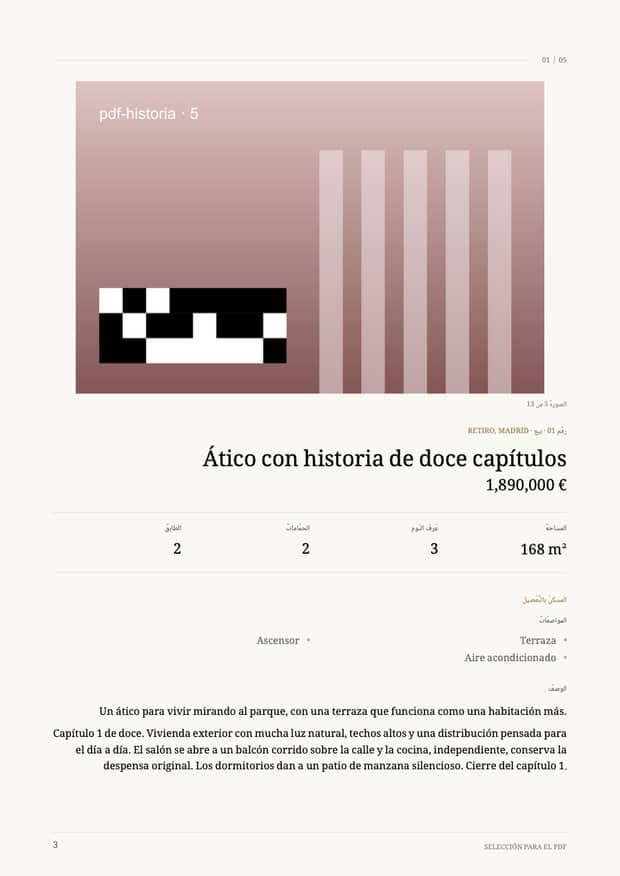
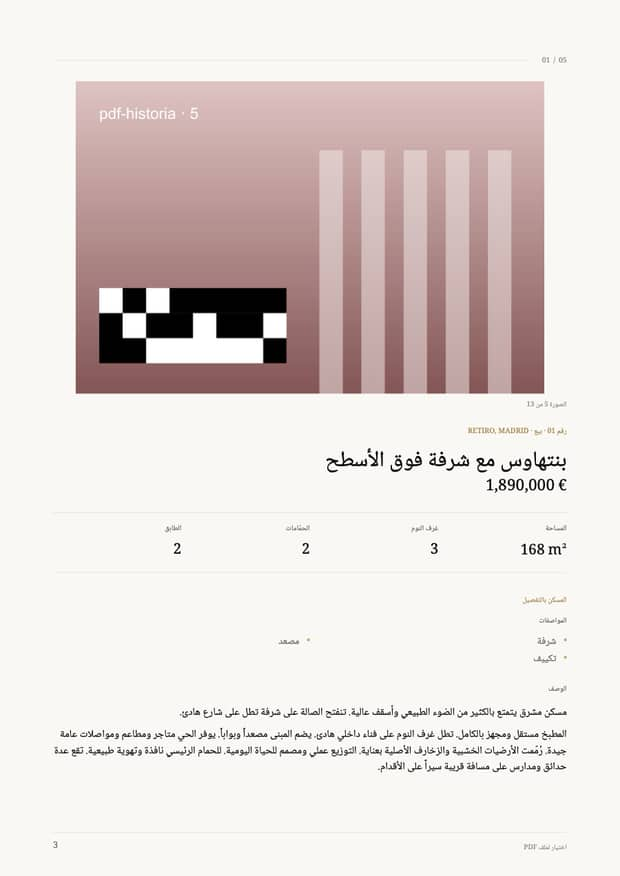
docs(catalogos): adaptación del PR5 al PR6 (contenido traducido, N5, E10) y capturas

diff --git a/docs/changes/2026-10-21-bcp-01-ampliacion-textos-idiomas/result-pr5.md b/docs/changes/2026-10-21-bcp-01-ampliacion-textos-idiomas/result-pr5.md
@@ -8,7 +8,7 @@
 > 1. **D1 no se podía aplicar como estaba previsto (DA21, se cuenta tal cual).** La prueba técnica suponía que el hilo del PDF lleva `@react-pdf` compilado dentro. No es así: Next tiene `@react-pdf/renderer` en su lista **por defecto** de paquetes externos del servidor, así que Node lo carga de `node_modules` al ejecutar, también dentro del hilo. Un loader de webpack nunca lo tocaría. Lo detectó la propia comprobación del PR en el servidor de fixtures (500 con `pdf_engine_unpatched`). **Solución:** la misma corrección, como hook de carga de módulos de Node (`module.register`), que se instala al arrancar el servidor (`instrumentation.ts`) y al arrancar el hilo (primera importación de `render-worker.ts`). El loader de webpack queda de reserva. Probado en el servidor de desarrollo (hilo y camino sin hilo) y **ejecutando el chunk del hilo compilado por `next build`** sin ningún hook externo.
 > 2. **El español sale idéntico a `main`:** los 10 catálogos de fixtures, objeto a objeto, salvo fecha, `/ID` y prefijo aleatorio de las fuentes.
 > 3. **D4 queda propuesta** (abajo): en árabe y hebreo, cifras, precios y latín con la parte latina de **la misma familia** (Noto Naskh Arabic, Frank Ruhl Libre, Noto Sans Hebrew), como el lector. Cambiarla es una línea.
-> 4. **Dos cosas nuevas para Fabricio:** un residuo de forma más del árabe (los puntos de la «ة» final de «المساحة», familia E8, no cubierto por D3) y un defecto **anterior** del PDF en español (la ligadura «fi» de Playfair no lleva texto: algunos lectores copian «La finca» como «La nca»). Ninguno se ha tocado en silencio.
+> 4. **Para Fabricio:** un defecto **anterior** del PDF en español (la ligadura «fi» de Playfair no lleva texto: algunos lectores copian «La finca» como «La nca»), no tocado. El residuo de forma del árabe (E8, «في» y «ة») **ya no existe**: era un defecto del motor (E10) encontrado al adaptar el PR5 al PR6 y corregido (ver «Adaptación al PR6»).
 
 ## PR5 · PDF multilingüe y fuentes
 
@@ -49,7 +49,7 @@
 - **`patch.cjs` (un solo módulo).**
   - Sustituye trozos exactos de `@react-pdf/textkit` 6.3.0: `reorderLine` (E2, E3 y E4, más el texto lógico para D2) y `slice$1` (E7).
   - Y de `@react-pdf/render` 4.5.1: `renderGlyphs` (E6) y `renderLine` (ActualText, D2).
-  - Deja una marca (`bcp-pdf-engine-patch@1 textkit-6.3.0 render-4.5.1`) en `globalThis` y en el código.
+  - Deja una marca (`bcp-pdf-engine-patch@2 textkit-6.3.0 render-4.5.1`; `@1` antes de E10) en `globalThis` y en el código.
   - Es idempotente.
 - **Comprobación de versión** (al cargar). Si la versión instalada no es la revisada, o un trozo no aparece exactamente una vez, **lanza**: «[pdf-engine-patch] @react-pdf/textkit 6.4.0 no es la versión revisada (6.3.0) — revisa lib/pdf/engine-patch/patch.cjs…». La carga de `@react-pdf` falla con ese motivo. Lo prueba `npm run test:pdf-engine` en la CI con versiones y textos simulados.
 - **Dónde se instala:**
@@ -63,7 +63,7 @@
   - El chunk del hilo (`.next.qa/server/chunks/9233.js`, 77 KB) contiene la marca, el hook (`data:text/javascript,`) y `import("@react-pdf/renderer")`, este fuera del bundle.
   - `instrumentation.js` carga el chunk de instalación (`69554.js`, también con la marca).
   - **Prueba de ejecución:** ese chunk compilado se lanzó como `Worker` desde un proceso **sin** el hook de los scripts (marca ausente en el proceso principal). Maquetó «pdf» en ar (16 hojas, 103 líneas con ActualText), he (15 hojas, 102) y es (16 hojas, 0).
-- **Se buscó así:** `grep -rl "bcp-pdf-engine-patch@1" .next.qa/server` y `grep -rl parentPort .next.qa/server/chunks`, antes de borrar `.next.qa`.
+- **Se buscó así:** `grep -rl "bcp-pdf-engine-patch@2" .next.qa/server` (`@1` en la primera versión) y `grep -rl parentPort .next.qa/server/chunks`, antes de borrar `.next.qa`.
 
 ### Propuesta D4 (para que Fabricio la cierre)
 
@@ -98,9 +98,7 @@
 | `compare-worker-inline.mts`: hilo frente a camino sin hilo, también ar, he y tr (y byte a byte con `same-pdf.mts`) | ✅ 10/10 |
 | `test-pdf-worker.mts` (hilo, cancelación, memoria, respaldo, entorno mínimo) | ✅ todo en verde |
 | `check-rtl-visual.mts` (local, nuevo; pdfjs en Chromium, como la prueba técnica).<br>• ar y he: todas las páginas del PDF real con contenido.<br>• Filas reflejadas medidas en el documento real: índice, datos clave y pie.<br>• **24 líneas reales del PDF** frente a Chromium con las mismas fuentes y controles en espejo y bidi invertido.<br>• Letras unidas («مسكن»: 0 huecos; separada: 3).<br>• Título árabe y hebreo con ActualText lógico. | ✅ **35**, ⚠ 3, 0 ❌ |
-| Residuos de forma del árabe (E8), con orden y ancho correctos: | ⚠ |
-| • «في» en el título y en el texto del cierre (perfil 0,845 y 0,891): **aceptado en D3**. | |
-| • «المساحة» (perfil 0,877): los dos puntos de la «ة» final salen algo más altos que en Chromium. Es legible y el orden es correcto (controles −0,08 y −0,37). **No está cubierto por D3: lo decide Fabricio** (captura `capturas-pr5/lineas-ar-pdf-vs-chromium.jpg`). | |
+| Residuos de forma del árabe (E8: «في» 0,845 y 0,891; «ة» de «المساحة» 0,877) en la primera versión. **Resueltos** en la adaptación al PR6: eran E10 (puntos sin su desplazamiento vertical). Tras la corrección, 0,996–0,999 y ningún ⚠. | ✅ |
 | Descarga desde el botón del lector (servidor de fixtures en 3140, `pdf-qa.mjs`), en ar, he, tr y es y en el enlace personal de Ana en hebreo:<br>• nombre del archivo en el idioma, `/Lang`, textos del idioma, ActualText solo en ar/he y aviso «PDF descargado» en el idioma;<br>• maquetado por el hilo («pdf hilo» en el log);<br>• con `CATALOG_PDF_WORKER=0`, el árabe sale bien por el camino sin hilo (hook de `instrumentation.ts`). | ✅ 41 |
 | QA anteriores contra 3140:<br>• lector `qa` (24), `res-qa` (24), zonas `area-qa` (19), estructura `st-qa` (15), textos aprobados `copy-qa` (17), título `title-qa` (7), opiniones `fb-qa` (23) y **idiomas del lector `lang-qa` (218)**;<br>• plantillas `tpl-qa`: 28/29 con su espera de 1,5 s y **29/29** con 4 s. Es un paso del gestor que el PR no toca: «quitar la plantilla» tarda más en el servidor de desarrollo;<br>• `fb-qa` y `lang-qa` necesitaron una segunda pasada tras un `reset` (estado dejado por la QA anterior); luego en verde. | ✅ |
 | `pdf-rtl-spike.mts` con parche: los mismos 4 ❌ documentados en la prueba técnica (E8 y la extracción de PDFKit, que no lee ActualText). | = prueba técnica |
@@ -126,7 +124,7 @@ Capturas en [`capturas-pr5/`](capturas-pr5/), 500 KB:
 | H3 | `module.registerHooks` (Node 23.7) rompe CommonJS importado desde ESM. | Se usa `module.register`. |
 | H4 | El aviso de la descarga en el lector salía en español en los demás idiomas (PR4). | Corregido (`useReaderPdf` recibe el diccionario del enlace). |
 | H5 | **Anterior, también en `main`:** en el PDF en español, la ligadura «fi» de Playfair (título «La finca») se incrusta sin entrada en el ToUnicode. PDFKit de macOS la reconoce. Un lector que solo mire el ToUnicode copia «La nca». | **No se ha tocado**: el español debía quedar idéntico. El lector de las pruebas la identifica por anchura y forma. Se propone corregirlo en un PR aparte. |
-| H6 | Residuo de forma árabe en la «ة» final («المساحة»), además de «في» (D3). | Se informa; decide Fabricio. |
+| H6 | Residuo de forma árabe en la «ة» final («المساحة»), además de «في» (D3). | **Resuelto** (E10, adaptación al PR6): ya no hay residuo. |
 | H7 | PDFKit de macOS y pdf.js **no** leen ActualText; con ellos el árabe copiado sigue dando otras letras. | La verificación usa un lector propio que sí lo lee, como hacen, según su documentación, Acrobat y poppler. En Chrome (pdfium) no se ha podido comprobar desde aquí: paso de la QA de Fabricio. |
 
 ### Efectos al fusionar
@@ -159,7 +157,7 @@ Capturas en [`capturas-pr5/`](capturas-pr5/), 500 KB:
    - En Acrobat y en Chrome, **selecciona y copia** un rótulo árabe («الفهرس») y busca «اختيار»: debe salir el texto correcto. Si en Chrome no, dímelo: sería H7.
 5. Repite el paso 4 con `'he'`. Para deshacerlo, la misma llamada con `NULL`.
 6. Revisa los textos nuevos del PDF en `lib/catalogs/pdf-i18n.ts`. **ar, tr y he necesitan un hablante nativo** (DA20).
-7. Decide **D4** (propuesta arriba) y el residuo «ة» de H6.
+7. Decide **D4** (propuesta arriba). El residuo «ة» de H6 ya no existe (E10).
 
 ### Ajustes al plan
 
@@ -182,6 +180,68 @@ Capturas en [`capturas-pr5/`](capturas-pr5/), 500 KB:
 - Viñetas de características alineadas al lado de la viñeta en RTL (`alignItems: flex-end`).
 - Los avisos ⚠ de E8 no cuentan como fallo, pero se listan en `informe.json` y aquí.
 - `same-pdf.mts` ignora fecha, `/ID`, prefijo de subconjunto y `/Length`.
+
+### Adaptación al PR6 (22-10-2026)
+
+El PR6 (#351, `4ed9ed52`) ya está en `main` y fusionado en esta rama (`dae5e4f9`; el conflicto de `ci.yml` se resolvió conservando `test:catalogs-pdf-i18n` y `test:catalogs-translations`).
+
+**Qué cambió con el PR6.** Fuera del español, el contenido sale **solo** de traducciones aprobadas y vigentes (`toPublicCatalog`). Si faltan:
+- **N5:** `copyPending` y el aviso «Descripción en preparación» del idioma, con un título provisional («Chamberí semtinde konut»).
+- La introducción del catálogo no se muestra.
+- Las características sin traducir no se muestran.
+
+El PDF ya lo respetaba: lee la proyección pública en el idioma del token. **No hubo que cambiar `document.ts`.**
+
+Las pruebas del PDF suponían el contenido en español y daban 9 ❌ de 370:
+- faltaban las etiquetas de introducción, saludo y características;
+- los glifos turcos y franceses se buscaban en títulos que ahora son provisionales.
+
+**Qué se ha hecho.**
+
+1. **Traducciones de prueba escritas a mano** (`scripts/pdf/pdf-translations.mts`).
+   - **Textos:** en, fr, it, de, ar, tr y he. Doce frases generales de vivienda, ocho títulos, las 14 características de las fixtures y título e introducción de los tres catálogos con dueño. ar, tr y he «sin revisión nativa».
+   - **Sin IA:** un traductor local y determinista responde con el formato de `TRANSLATION_SCHEMA`: mismos bloques y párrafos, longitud parecida al español.
+   - **Mismo camino que el gestor:** `prepareItem`, luego `approveItem` (confirmando los avisos) y luego `setLanguage`, con la comprobación de «completo», sobre el almacén de las fixtures con las reglas de 0226. La instantánea que lee el PDF es, por tanto, la de producción.
+   - **Glifos en el CONTENIDO:** el turco lleva ğ, ş, ı e İ en frases y títulos («SAKİN SOKAKTA» en mayúsculas). El francés lleva «L'Haÿ-les-Roses» en el título del catálogo «pdf», puesto a propósito para el glifo, y «L'HAŸ-LES-ROSES» en el pie.
+2. **Las dos situaciones en cada idioma:**
+   - **(a) traducido:** contenido completo palabra a palabra; títulos de sección del diccionario («Living in Retiro», «العيش في Retiro»); introducción y características; glifos del idioma en el contenido; **nada del español** (títulos, bloques, características, introducción).
+   - **(b) N5:** «fxPdfDesc0002» sin traducción. Aviso y texto del idioma en sus páginas, título provisional y **nada del español** de esa vivienda; las demás, traducidas.
+   - **Las etiquetas** de introducción, saludo y características se exigen cuando el PDF las tiene que llevar (hay introducción o características en el idioma). En (a) y (b) las lleva siempre.
+3. **E10, defecto del motor encontrado con contenido árabe real (DA21).**
+   - **Síntoma:** en la imagen, «شرفة», «مسكن مشرق…» y la introducción salían con los puntos lejos de su letra (perfil 0,59–0,79 frente a Chromium).
+   - **Causa:** `resolveRunYOffset` de textkit **sustituía** el desplazamiento vertical de cada glifo (GPOS de la fuente) por el de la run, que es 0. Noto Naskh coloca los puntos y la hamza con ese desplazamiento.
+   - **Corrección** en `patch.cjs` (marca `@2`): se **suma**. `test:pdf-engine` lo comprueba: el texto, el error si cambia y alturas de glifo distintas en el árabe.
+   - **Era lo que se atribuía a fontkit:** «في» (E8, D3) y la «ة» (H6) pasan de 0,85–0,89 a 0,996–0,999 y ya **no queda ningún residuo**.
+   - **Prueba técnica:** el título árabe pasa de 0,900 a ✅ y su párrafo de muestra de 0,689 a 0,875. Ese párrafo sigue por debajo de 0,9; las otras dos ❌ que quedan son de PDFKit, que no lee ActualText.
+   - **Latino y hebreo:** sin cambios. El hebreo no lleva marcas y el latín usa letras precompuestas. **El español sigue idéntico a `main`.**
+4. **Verificación local por el hilo:**
+   - `check-catalog-pdfs.mts`: «pdf» y «main» traducidos y «pdf» con N5, en los 7 idiomas.
+   - `compare-worker-inline.mts`: ar, he y tr traducidos, y ar con N5.
+   - `check-rtl-visual.mts`: además del contenido traducido árabe y hebreo (título del catálogo y de la vivienda, título de sección, característica, frase e introducción), compara el aviso N5 sobre la imagen.
+
+| Comprobación (tras el PR6) | Resultado |
+| --- | --- |
+| **Español idéntico a `main` `4ed9ed52`** (`render-cases` + `same-pdf`, 10 catálogos) | ✅ 10/10, mismas páginas |
+| `test:catalogs-pdf-i18n` (CI): es + 7 idiomas × (a) traducido y (b) N5 | ✅ **678** |
+| `test:pdf-engine` (CI), con E10 | ✅ 42 |
+| `check-catalog-pdfs.mts` (local, por el hilo, 37 PDF, 0 respaldos) | ✅ **1.909**, 0 ❌ |
+| `compare-worker-inline.mts` (11 casos, también ar/he/tr traducidos y ar N5) | ✅ |
+| `check-rtl-visual.mts` (ar y he, contenido traducido real y N5 sobre la imagen) | ✅ **50**, **0 ⚠**, 0 ❌ |
+| Descarga desde el lector, fixtures en 3140 (`pdf-qa`). La QA respeta el límite de 6 descargas por minuto y enlace; un intento sin esperar dio el 429 previsto.<br>• ar, he, tr, es y el enlace personal de Ana en he.<br>• **ar y en traducidos en el gestor con la IA falsa** (preparar, aprobar y activar).<br>• Su PDF lleva el texto aprobado y nada del español; con una copia quitada, el aviso N5.<br>• **Descargar no llama a la IA** (5 → 5). | ✅ 54 |
+| QA del lector en 3140:<br>• `lang-qa` (versión del PR6, con N5): 218;<br>• `tr-qa` (PR6): 58;<br>• `qa` 24, `res-qa` 24, `fb-qa` 23, `st-qa` 15, `title-qa` 7. | ✅ |
+| 31 suites de la CI (bucle sin `npm run build`), `tsc`, `lint-migrations.py` | ✅ |
+| `next build` aislado (`.env.production` fuera, `tsconfig.json` respaldado).<br>• Log sin «Environments: .env»; los dos restaurados e intactos (`git diff` vacío); `.next.qa` y `.next` borrados.<br>• Marca `@2` en `chunks/9233.js` (hilo) y `69554.js`.<br>• El hilo compilado maqueta ar, he y es sin el hook de los scripts. | ✅ |
+
+**Hojas por idioma** (DA35: no se exige el mismo número que en español):
+- Español: «pdf» 16, «main» 12.
+- «pdf» traducido: en 16; fr, it, de, ar, tr y he 15.
+- «pdf» con N5: en 15; los demás 14, porque la descripción larga se sustituye por el aviso.
+- «main» traducido: 12; he 11.
+- Las frases de prueba son algo más cortas que el español, de ahí la hoja menos. El índice apunta siempre a la página real.
+
+**Capturas** ([`capturas-pr5/`](capturas-pr5/), 596 KB):
+- Rehechas con contenido traducido: la hoja de vivienda en los 7 idiomas, el índice en ar y he y las líneas frente a Chromium.
+- Nuevas: `pdf-ar-n5.jpg` y `pdf-he-n5.jpg`.
 
 ### Cómo reproducir
 
